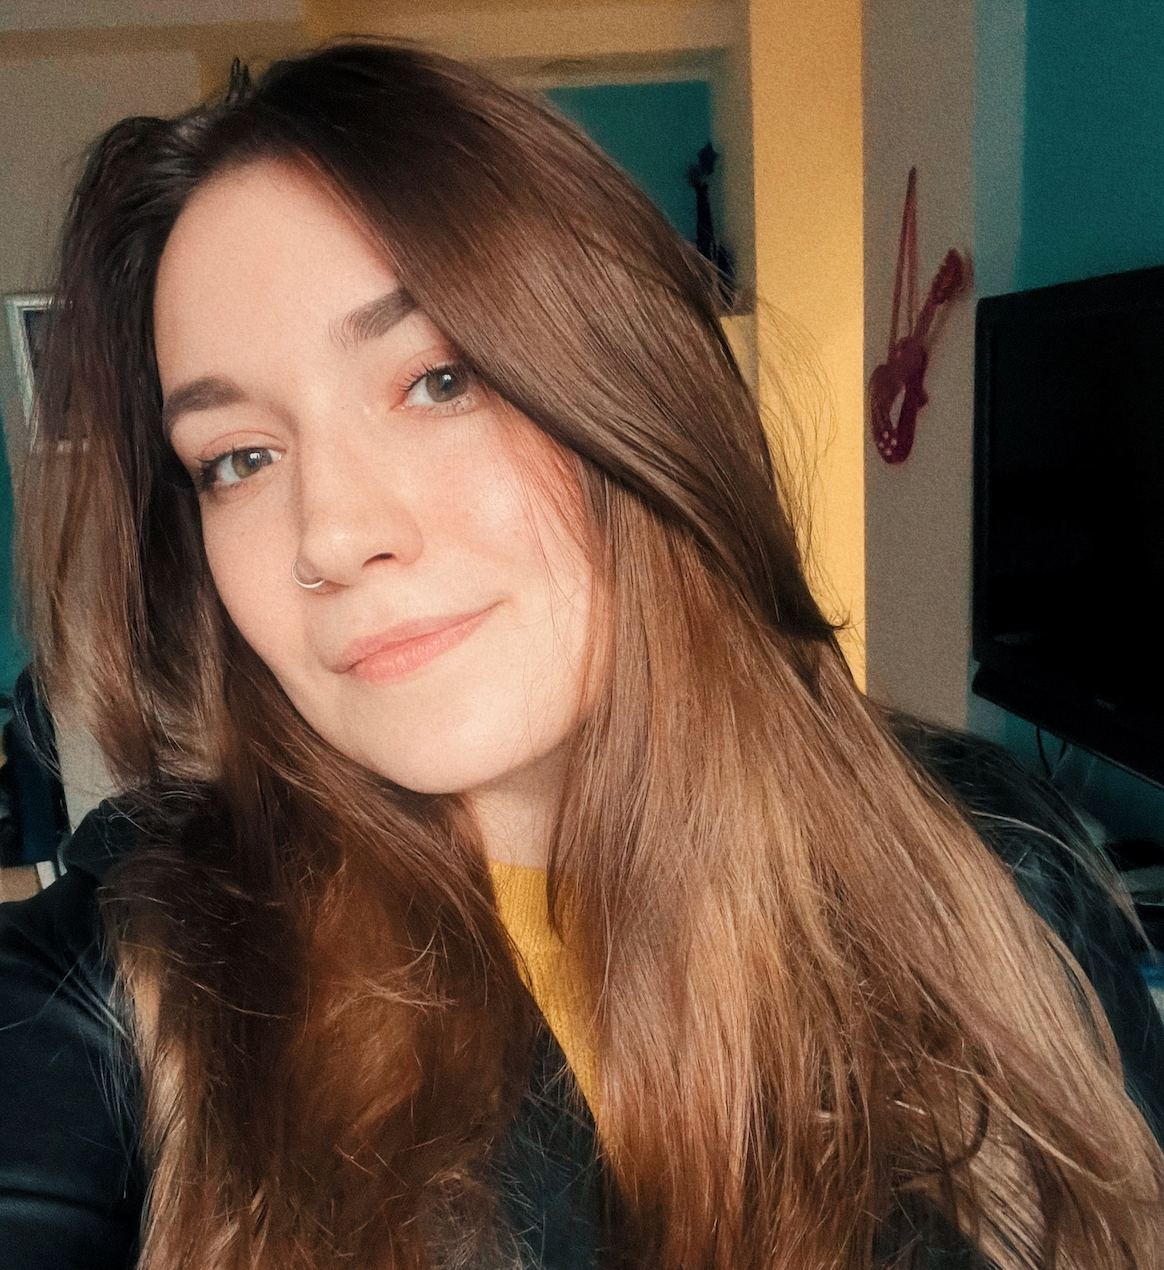
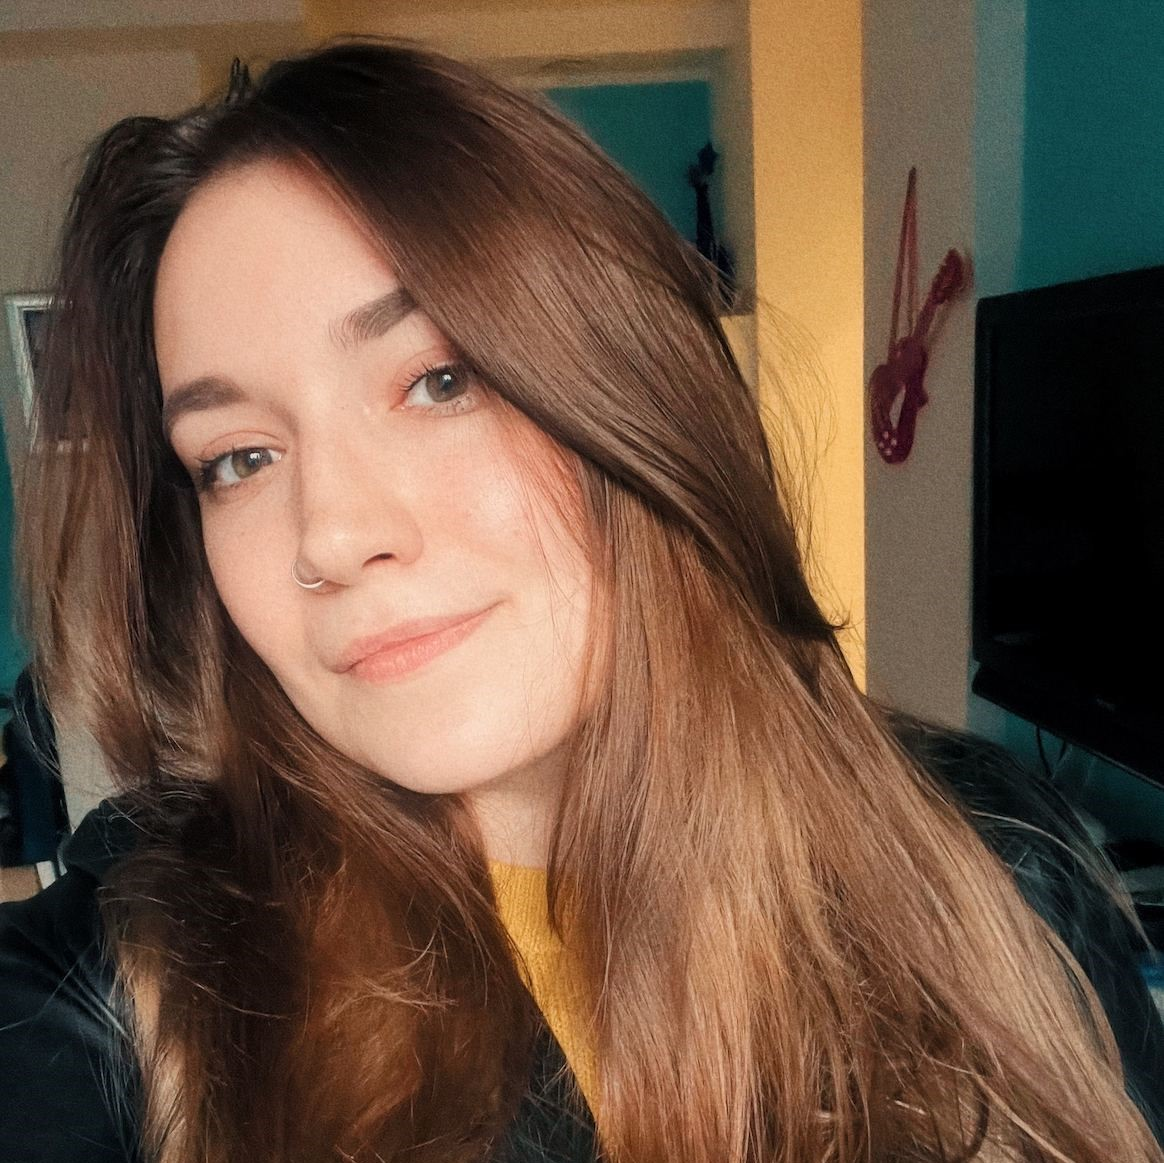
update photo and fix adaptive

diff --git a/src/app/page.tsx b/src/app/page.tsx
@@ -8,14 +8,14 @@ import SocialBadge from '@/components/SocialBadge';
 
 export default function Home() {
     return (
-        <main className="container max-w-screen-lg mx-auto flex min-h-screen flex-col items-center p-5 sm:p-15 font-sans">
+        <main className="container max-w-screen-lg mx-auto flex flex-col items-center p-5 sm:p-15 font-sans">
             <div className="flex flex-col sm:flex-row max-w-xs sm:max-w-none shadow-md rounded-lg ">
                 <Image
                     src={resongPic}
-                    className="rounded-t-lg sm:rounded-s-lg sm:rounded-e-none flex-none sm:w-48 relative aspect-square md:mb-0"
+                    className="rounded-t-lg sm:rounded-s-lg sm:rounded-e-none flex-none sm:w-52 sm:h-52 relative aspect-square md:mb-0"
                     alt="Picture of the author"
                 />
-                <div className="flex-auto p-4 border rounded-b-lg rounded-t-none">
+                <div className="flex-auto p-4 border rounded-b-lg rounded-t-none sm:h-52 sm:rounded-e-lg">
                     <div className="flex-column w-full">
                         <h1 className="text-lg font-semibold text-slate-900">Hello, I am Kseniia</h1>
                         <div className="text-sm font-medium text-slate-500 mt-2">Data Analyst SQL/Python</div>
